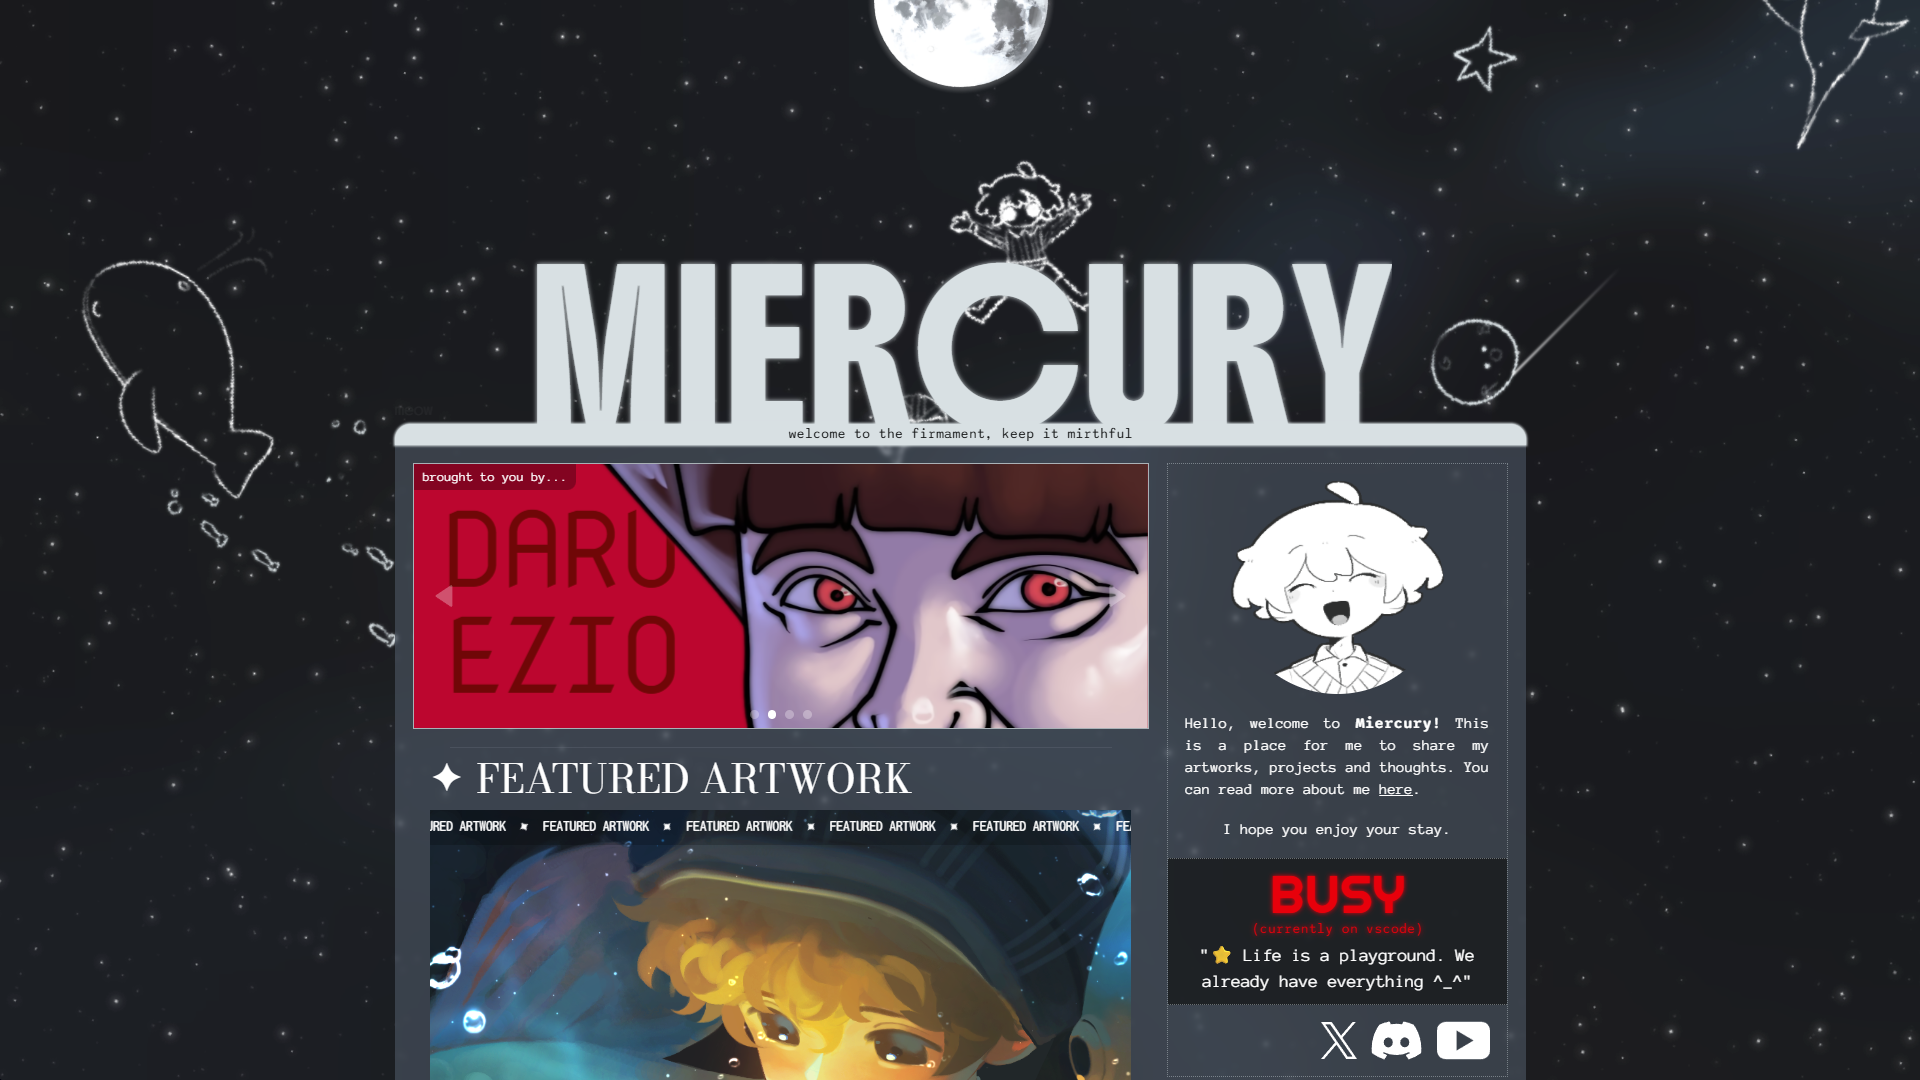
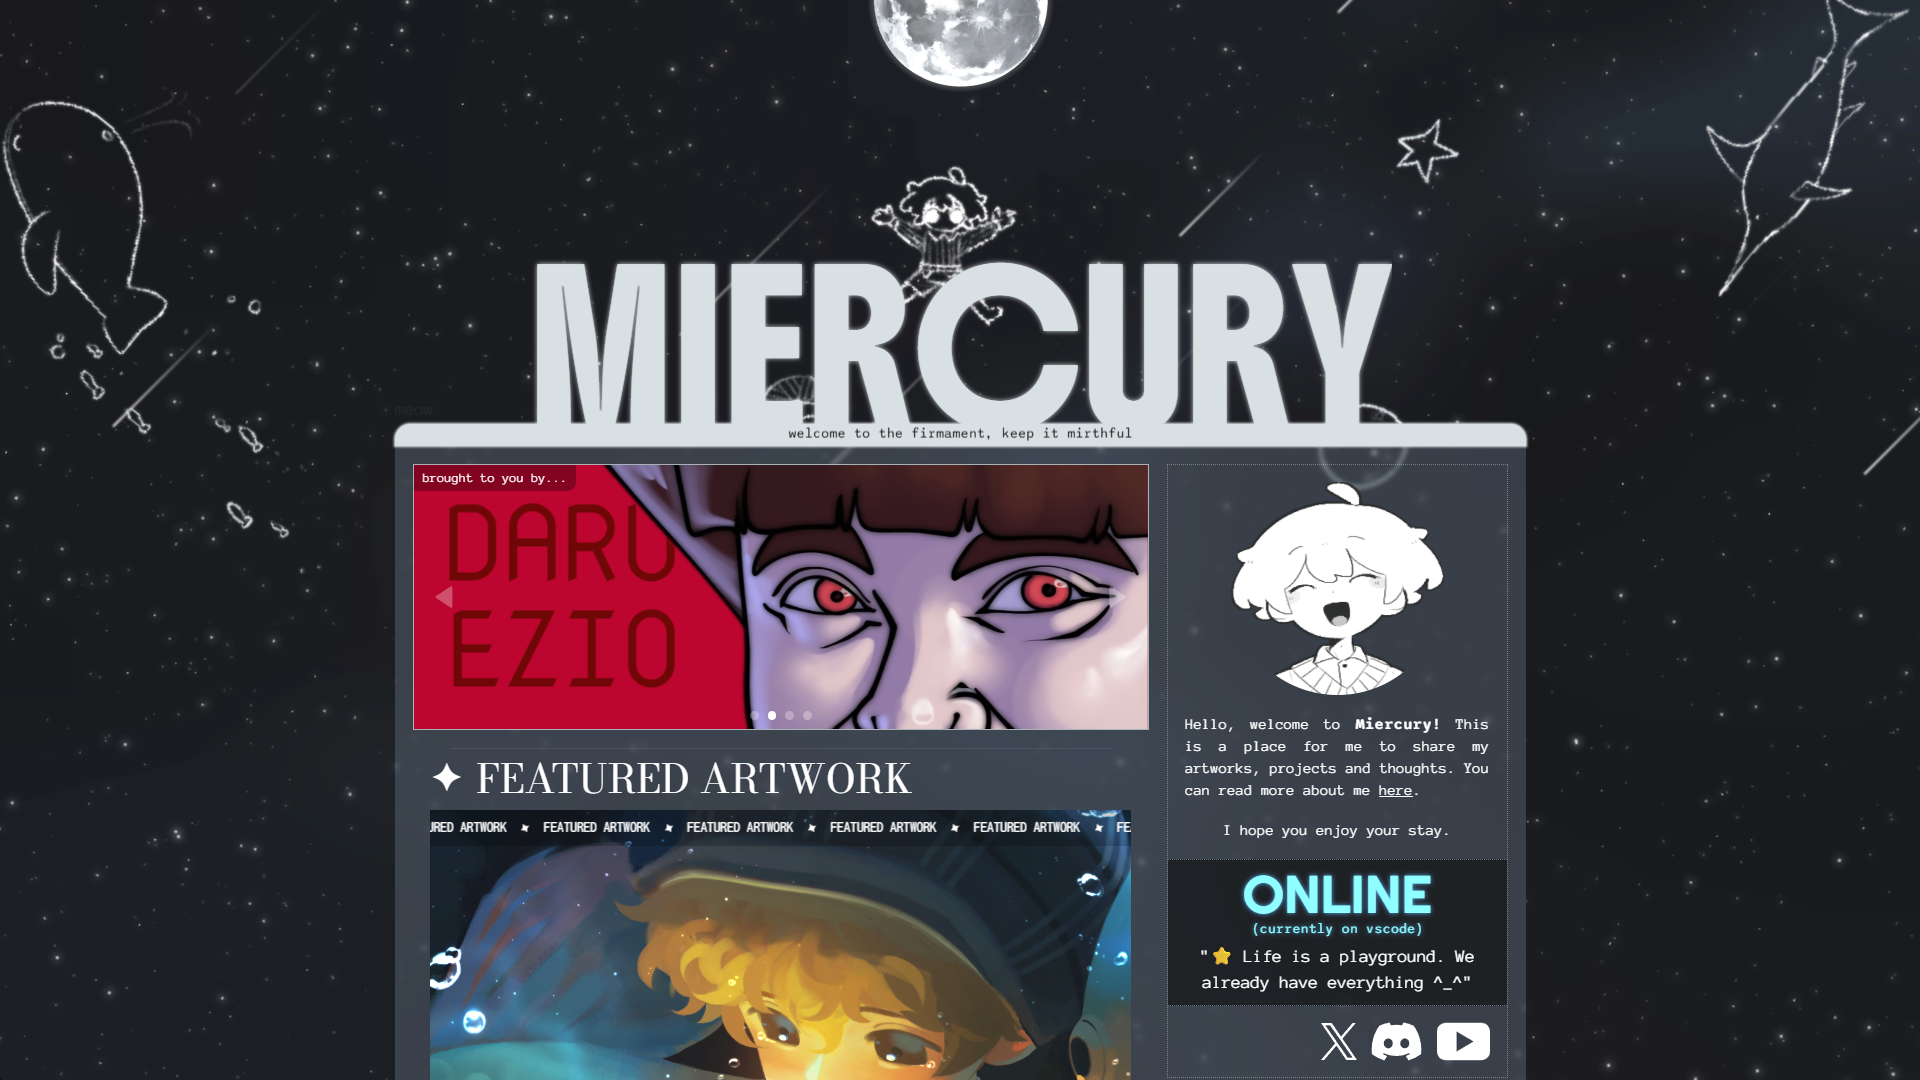
polish portfolio font usage / make stack object

diff --git a/components/portfolioComponent.tsx b/components/portfolioComponent.tsx
@@ -101,6 +101,38 @@ export default function QuotesComponent() {
     Promise.all(promises).then(() => setReady(true));
   }, []);
 
+  const stack = {
+    languages: [
+    "TypeScript",
+    "JavaScript",
+    "HTML",
+    "CSS",
+    "SQL",
+    ],
+
+    Frontend: [
+    "React",
+    "Next.js",
+    "Tailwind CSS",
+    ],
+    
+    Backend: [
+    "Supabase",
+    "PostgreSQL",
+    ],
+    
+    Tools: [
+    "Git",
+    "GitHub",
+    "Vercel",
+    ],
+    
+    Libraries: [
+    "GSAP",
+    "Tiptap",
+    "YARL",
+    ]
+  }
 
   return (
     <div className="flex items-center justify-center">
@@ -161,57 +193,49 @@ export default function QuotesComponent() {
 
         </div>
 
-        <hr className="border-2 border-gray-500/60 mt-4 w-full" />
+        <hr className="border-2 border-gray-500/60 my-4 w-full" />
 
         {/* INFO */}
         <div
-          className="flex items-center justify-center h-screen flex-col"
+          className="flex items-center h-screen flex-col"
           ref={infoRef}
         >
-          <p className={`text-xl ${kosugi.className}`}>A LITTLE BIT ABOUT ME:</p>
+          <p className={`text-4xl pb-4 text-gray-400 flex gap-4 items-center nonsel tracking-widest`}>
+            <span className="text-xl">★</span> 
+            A LITTLE BIT ABOUT ME
+            <span className="text-xl">★</span> 
+          </p>
           
-          <div className="grid grid-rows-2">
+          <div className="grid grid-cols-3 gap-4">
+            
+            {Object.entries(stack).map(([category, technologies]) => (
+              <div 
+                key={category}
+                className="bg-gray-400/10 p-4 flex flex-col items-center"
+              >
+                <p className={`text-2xl ${kosugi.className}`}>{category.toLocaleUpperCase()}</p>
 
+                {technologies.map((tech) => (
+                  <p key={tech} className="text-sm">{tech}</p>
+                ))}
+              </div>
+            ))}
+            
           </div>
-          Languages:
-          TypeScript
-          JavaScript
-          HTML
-          CSS
-          SQL
-
-          Frontend:
-          React
-          Next.js
-          Tailwind CSS
-
-          Backend:
-          Supabase
-          PostgreSQL
-
-          Tools:
-          Git
-          GitHub
-          Vercel
-
-          Libraries:
-          GSAP
-          Tiptap
-          YARL
 
         </div>
 
-        <hr className="border-2 border-gray-500/60 mt-4 w-full" />
+        <hr className="border-2 border-gray-500/60 my-4 w-full" />
 
         {/* PROJECTS */}
         <div
-          className="flex py-4 items-center min-h-screen w-full flex-col"
+          className="flex items-center min-h-screen w-full flex-col"
           ref={projectsRef}
         >
-          <p className={`text-4xl pb-4 text-gray-400 flex gap-4 items-center nonsel ${kosugi.className}`}>
-            <span className="text-xl">★</span> 
+          <p className={`text-4xl pb-4 text-gray-400 flex gap-4 items-center nonsel tracking-widest`}>
+            <span className="text-xl">✦</span> 
             PROJECTS
-            <span className="text-xl">★</span> 
+            <span className="text-xl">✦</span> 
           </p>
           
           <div className="rounded-lg h-auto w-140 flex flex-col max-w-[80%]">
@@ -231,8 +255,8 @@ export default function QuotesComponent() {
             <p className="text-sm text-justify">Miercury is my personal website and portfolio, built with Next.js, React, TypeScript, and Supabase. It showcases my artwork, projects, and web development skills while serving as a full-stack application with an interactive user experience and a custom admin dashboard for managing site content.</p>
           </div>
 
-          <p className={`text-xl pt-8 translate-y-2 nonsel text-gray-500`}>Inside Miercury...</p>
-          <p className={`nonsel text-gray-500 panic`}>▼</p>
+          <p className={`text-xl pt-8 translate-y-2 nonsel text-gray-500 tracking-widest`}>Inside Miercury...</p>
+          <p className={`nonsel text-gray-500 panic pb-0.5`}>▼</p>
 
           <hr className="border-gray-500/40 mb-8 mt-0.5 w-[96%]" />
 
@@ -267,7 +291,7 @@ export default function QuotesComponent() {
           <hr className="border-gray-500/40 mt-8 w-[96%]" />
           
           {/* GAMES */}
-          <p className={`text-4xl text-gray-400 flex gap-4 pt-4 items-center nonsel ${kosugi.className}`}>
+          <p className={`text-4xl text-gray-400 flex gap-4 pt-4 items-center nonsel tracking-widest`}>
             <span className="text-xl">✦</span> 
             GAMES
             <span className="text-xl">✦</span> 
@@ -310,11 +334,11 @@ export default function QuotesComponent() {
           ref={contactRef} 
         >
           <Marquee
-            className="h-[10%] text-5xl nonsel pointer-events-none top-0"
+            className="h-[10%] text-5xl nonsel pointer-events-none top-0 tracking-[0.2em]"
             autoFill
             speed={20}
           >
-            &nbsp;&nbsp;&nbsp;&nbsp;&nbsp;&nbsp;&nbsp;CONTACT
+            &nbsp;&nbsp;&nbsp;&nbsp;CONTACT
           </Marquee>
 
           <div className="h-[80%] bg-white w-full flex flex-col items-center justify-center">
@@ -327,12 +351,12 @@ export default function QuotesComponent() {
           </div>
 
           <Marquee
-            className="h-[10%] text-5xl nonsel pointer-events-none bottom-0"
+            className="h-[10%] text-5xl nonsel pointer-events-none bottom-0 tracking-[0.2em]"
             autoFill
             speed={20}
             direction="right"
           >
-            &nbsp;&nbsp;&nbsp;&nbsp;&nbsp;&nbsp;&nbsp;CONTACT
+            &nbsp;&nbsp;&nbsp;&nbsp;CONTACT
           </Marquee>
         </div>
 
